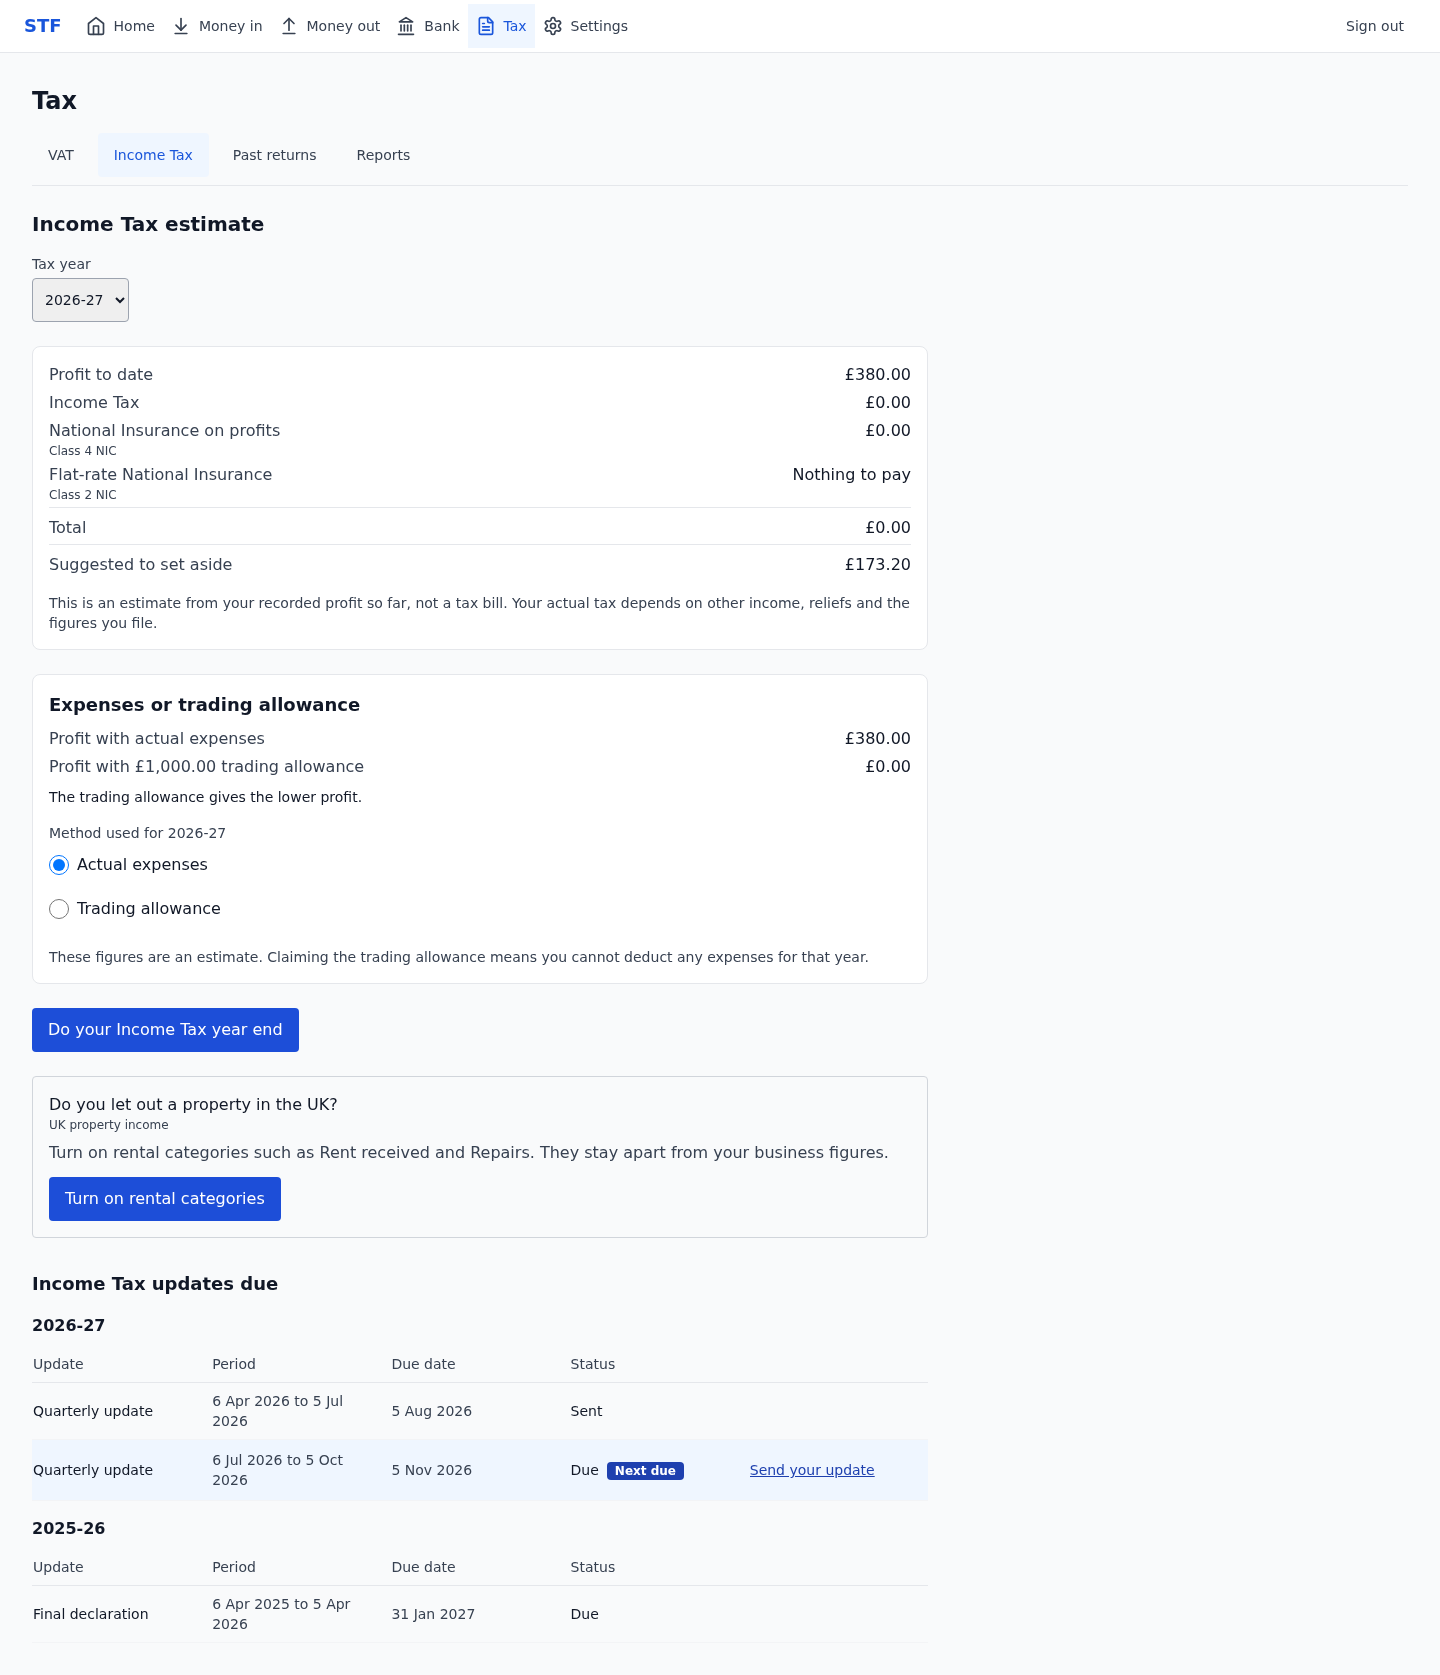
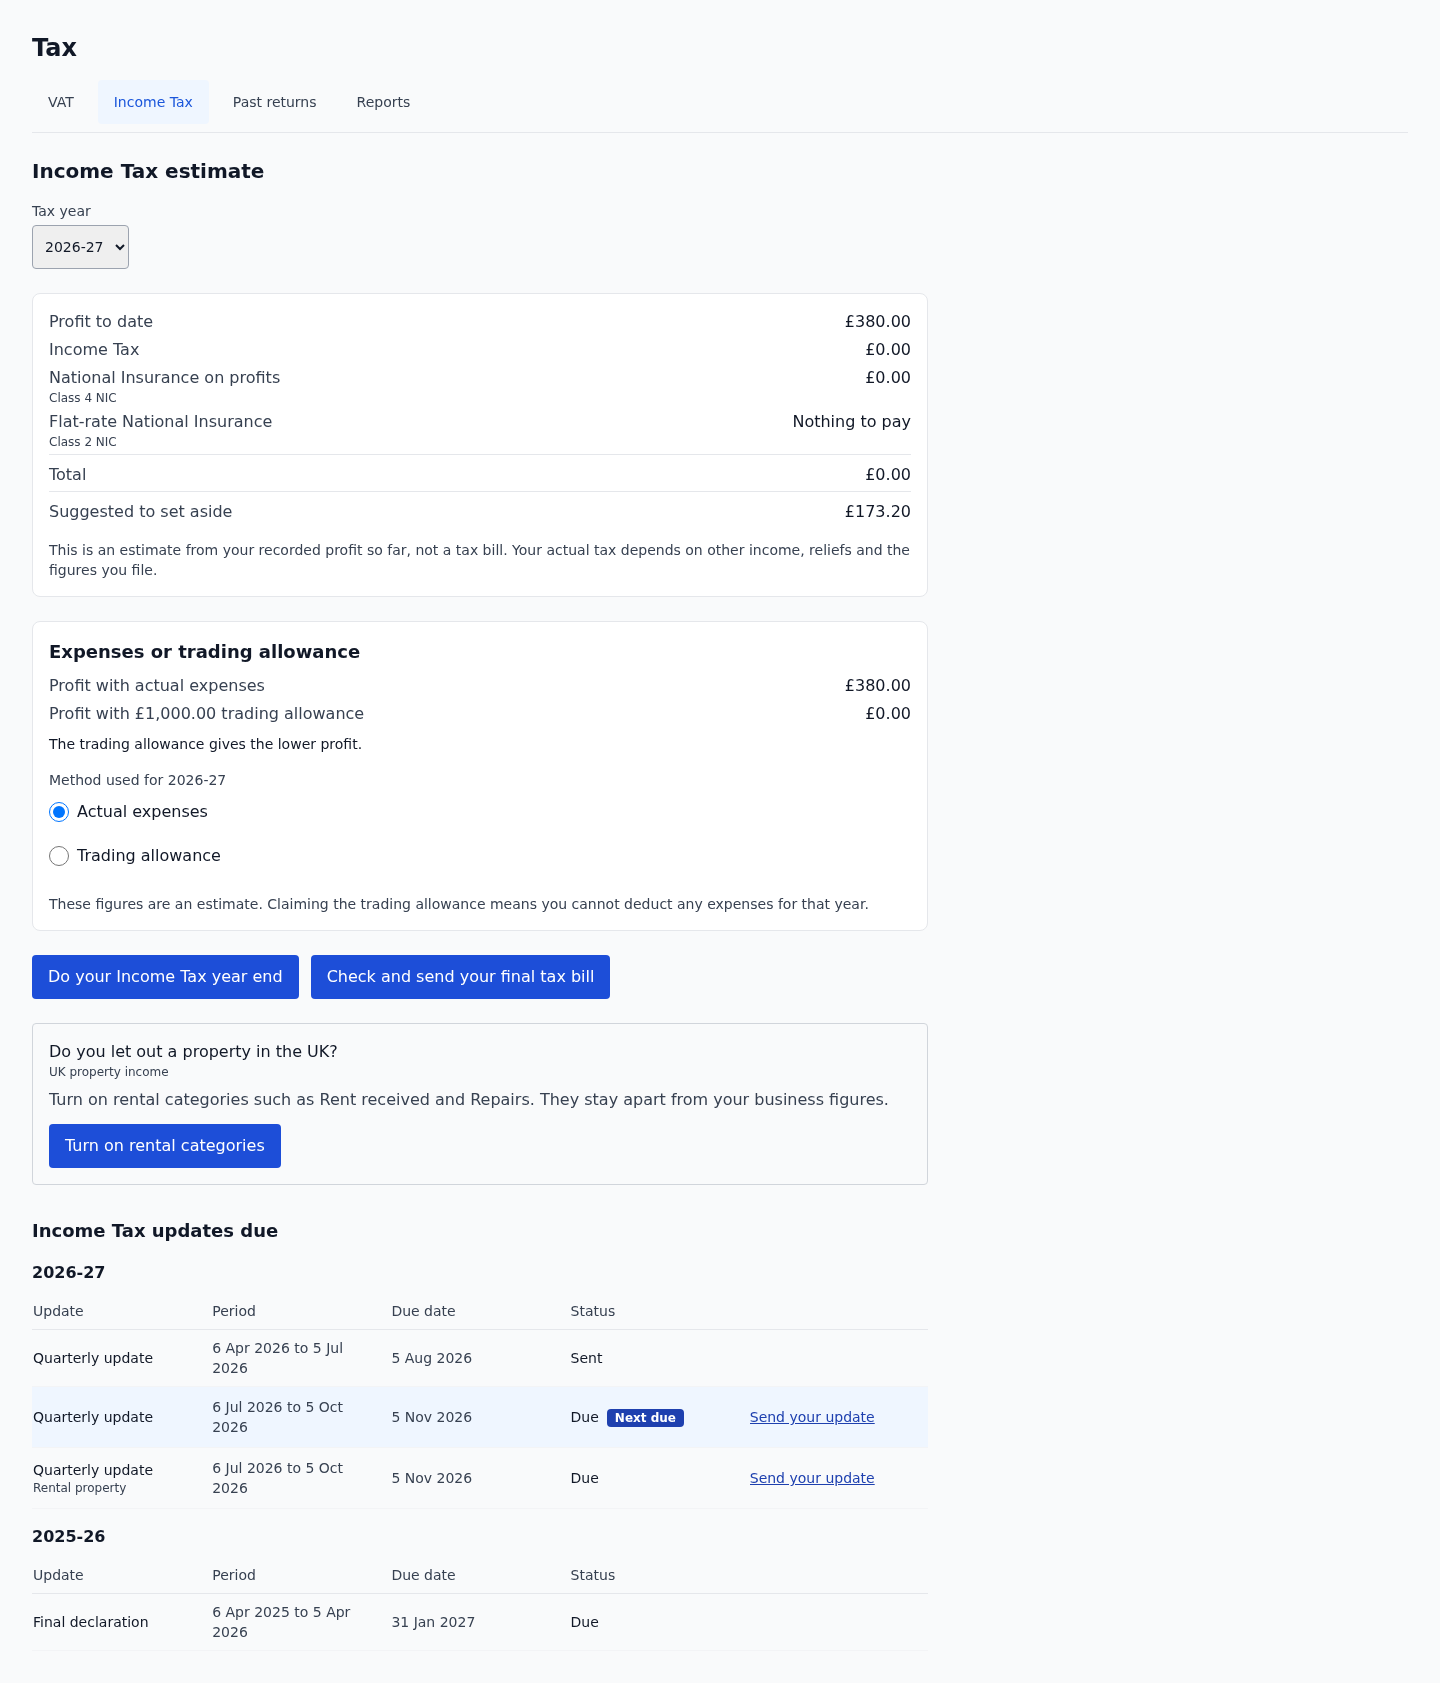
STF-109: retake rental prompt and money-out captures with fixed bars hidden

diff --git a/e2e/journey.spec.ts b/e2e/journey.spec.ts
@@ -561,3 +561,46 @@ test('owner sees the rental property update on the Tax page and reaches the send
   await expect(page.getByRole('button', { name: 'Send to HMRC' })).toBeDisabled();
   await capture('rental-update-send');
 });
+
+// Mock mode only: the two rental screens that sit outside the update flow, hidden-bar captures for STF-109.
+test('owner sees the rental prompt on the Tax page and the Rental property group when adding money out', async ({ page }) => {
+  test.skip(!mocked, 'Uses the mocked accounts API (JOURNEY_MOCK=1)');
+  const evidenceDir = path.join('browser-evidence', 'STF-109');
+  mkdirSync(evidenceDir, { recursive: true });
+  await mockApi(page, ownerPassword!);
+  await page.goto('/');
+  await page.getByLabel('Password').fill(ownerPassword!);
+  await page.getByRole('button', { name: 'Sign in' }).click();
+  await expect(page.getByRole('heading', { level: 1, name: 'Home' })).toBeVisible();
+
+  const capture = async (name: string) => {
+    for (const width of [1440, 390]) {
+      await page.setViewportSize({ width, height: 900 });
+      const hideFixedBars = await page.addStyleTag({ content: '.sticky, .fixed { display: none !important; }' });
+      expect(await page.evaluate(() => document.documentElement.scrollWidth <= window.innerWidth)).toBe(true);
+      await page.screenshot({ path: path.join(evidenceDir, `${name}-${width}-light.png`), fullPage: true });
+      await hideFixedBars.evaluate((node) => node.remove());
+    }
+  };
+
+  await page.goto('/tax/income-tax');
+  await expect(page.getByRole('button', { name: 'Turn on rental categories' })).toBeVisible();
+  await capture('tax-property-prompt');
+
+  await page.route('**/api/accounts*', (route) =>
+    route.fulfill({
+      contentType: 'application/json',
+      body: JSON.stringify({
+        accounts: [
+          { id: 'acc-expense-1', code: '6000', name: 'Office costs', accountType: 'expense', taxCategory: 'office-costs', isSystem: true },
+          { id: 'acc-rent-1', code: '4200', name: 'Rent received', accountType: 'income', taxCategory: 'property-rent-received', isSystem: false },
+          { id: 'acc-repairs-1', code: '6710', name: 'Rental repairs and maintenance', accountType: 'expense', taxCategory: 'property-repairs-maintenance', isSystem: false },
+        ],
+      }),
+    }),
+  );
+  await page.goto('/money-out');
+  await page.getByRole('button', { name: 'Add entry' }).click();
+  await expect(page.locator('#entry-category optgroup[label="Rental property"]')).toHaveCount(1);
+  await capture('money-out-rental-group');
+});
